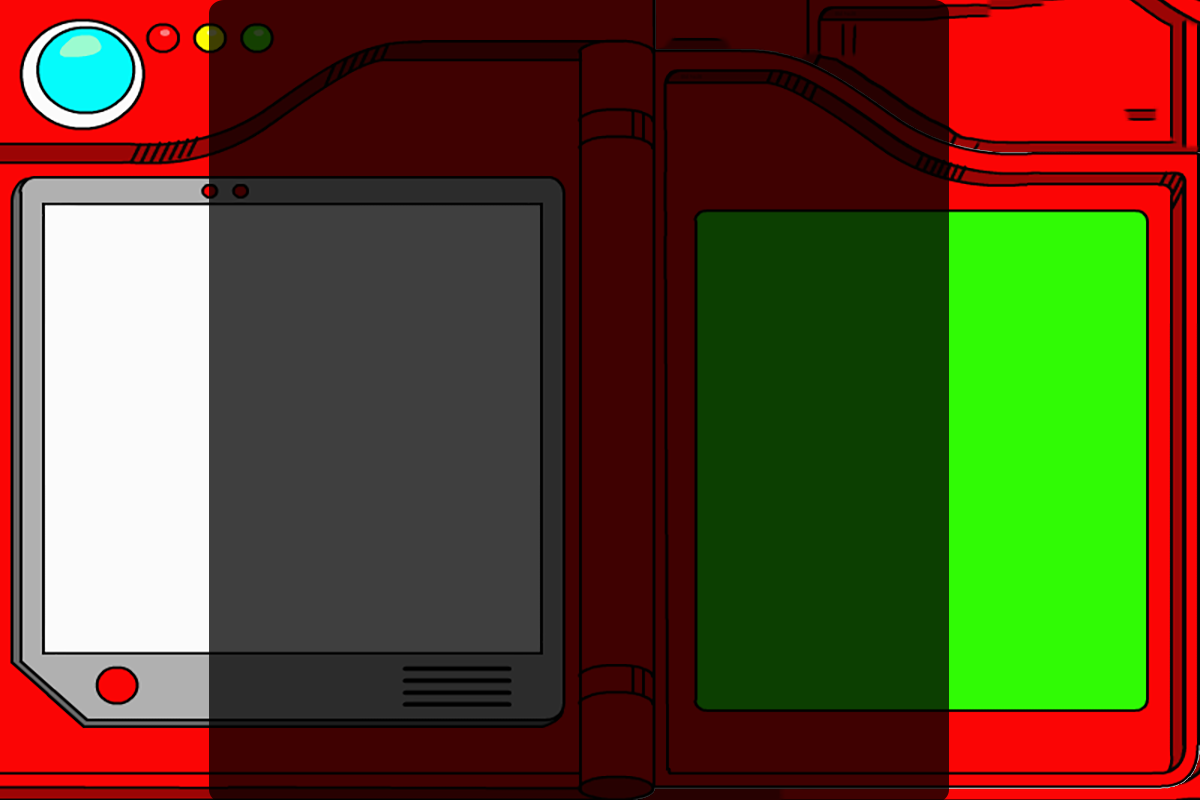
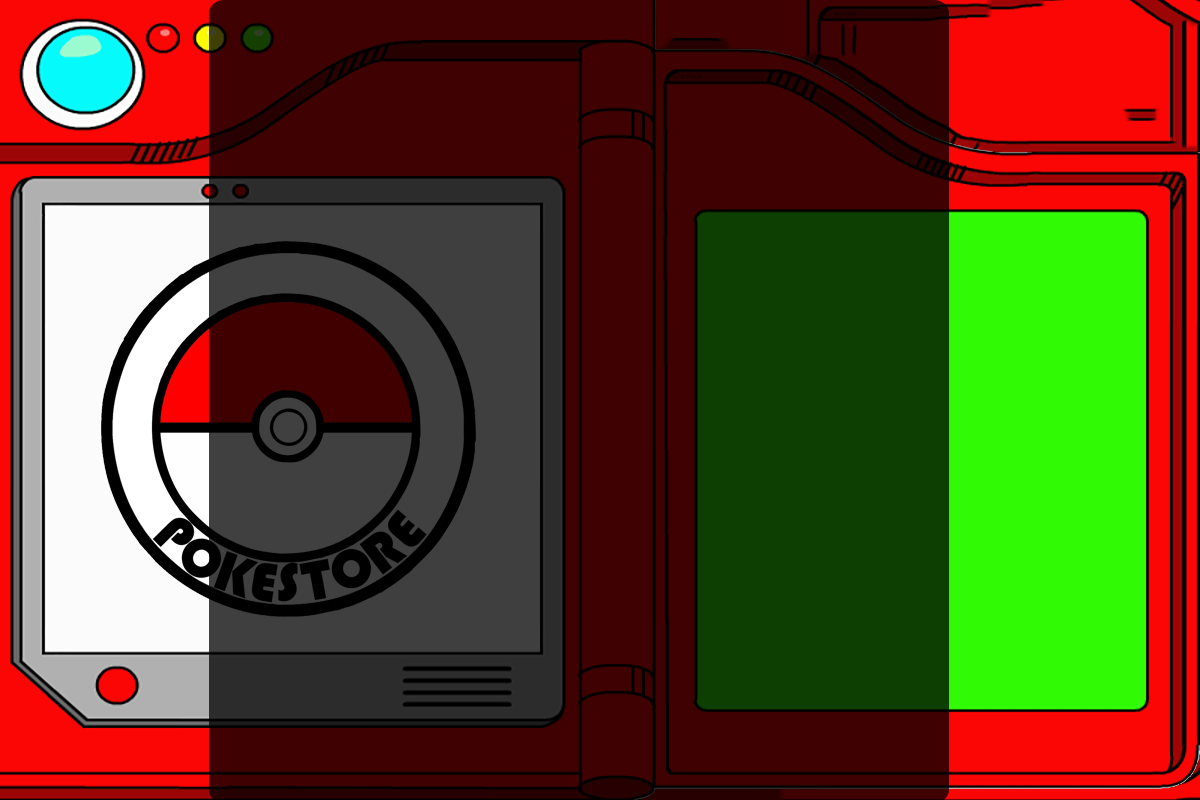
bg listu a batohu

Changed region(s): [[0.0617, 0.2812, 0.4008, 0.7812]]

diff --git a/GUI_Pokemon/BackPack.cpp b/GUI_Pokemon/BackPack.cpp
@@ -1,12 +1,13 @@
 #include "BackPack.h"
 #include <iostream>
 #include "ListOfPokemon.h"
-//#include "../../Pokemon/Pokemon/Trener.h"
+
 
 
 BackPack::BackPack()
 {
 }
+
 
 BackPack::BackPack(float width, float height, Player& player, Trener* trener)
 {
@@ -44,6 +45,12 @@ BackPack::BackPack(float width, float height, Player& player, Trener* trener)
 	items.push_back(pokebaly);
 
 	
+
+	if (!bg_texture.loadFromFile("../Images/backPackBG.png"))
+	{
+		std::cerr << "texture not loaded - BackPack" << std::endl;
+	}
+	bg.setTexture(bg_texture);
 	
 	
 	// initialize menu
@@ -112,7 +119,7 @@ void BackPack::draw(sf::RenderWindow& window)
 		}
 
 		window.clear();
-
+		window.draw(bg);
 		for (unsigned int i = 0; i < items.size(); i++)
 		{
 			window.draw(items[i]);

diff --git a/GUI_Pokemon/ListOfPokemon.cpp b/GUI_Pokemon/ListOfPokemon.cpp
@@ -10,7 +10,11 @@ ListOfPokemon::ListOfPokemon(float w, float h, Player &player)
 	this->list = player.getGraphicPokemonList();
 	std::string nameOfPok;
 
-	
+	if (!bg_texture.loadFromFile("../Images/pokeListBG.png"))
+	{
+		std::cerr << "texture not loaded - STORE" << std::endl;
+	}
+	bg.setTexture(bg_texture);
 
 	for (unsigned int i = 0; i<sum; i++)
 	{
@@ -95,6 +99,7 @@ void ListOfPokemon::draw(sf::RenderWindow& window)
 		}
 
 		window.clear();
+		window.draw(bg);
 		for (unsigned int i = 0; i < sum; i++)
 		{
 			window.draw(menu[i]);
@@ -143,6 +148,7 @@ int ListOfPokemon::drawForBattle(sf::RenderWindow& window)
 		}
 
 		window.clear();
+		window.draw(bg);
 		for (unsigned int i = 0; i < sum; i++)
 		{
 			window.draw(menu[i]);

diff --git a/GUI_Pokemon/ListOfPokemon.h b/GUI_Pokemon/ListOfPokemon.h
@@ -10,13 +10,14 @@
 class ListOfPokemon: public MenuGeneric
 {
 private:
+	sf::Texture bg_texture;
+	sf::Sprite bg;
+
 	unsigned int sum;
 	Trener* trener;
 	std::vector<GraphicPokemon> list;
 public:
-
-//	ListOfPokemon(float w, float h, std::vector<Pokemon>& list, Trener* trener);
-	ListOfPokemon(float w, float h, Player &player/*std::vector<GraphicPokemon>& list*//*, Trener* trener*/);
+	ListOfPokemon(float w, float h, Player &player);
 	~ListOfPokemon();
 
 	void draw(sf::RenderWindow &window);

diff --git a/GUI_Pokemon/BackPack.h b/GUI_Pokemon/BackPack.h
@@ -13,8 +13,8 @@ class BackPack: public MenuGeneric
 private:
 	Trener *trener;
 		
-	sf::Texture tItems;
-	sf::Sprite sItems;
+	sf::Texture tItems,bg_texture;
+	sf::Sprite sItems,bg;
 		
 	float w, h;
 	Player* player;
